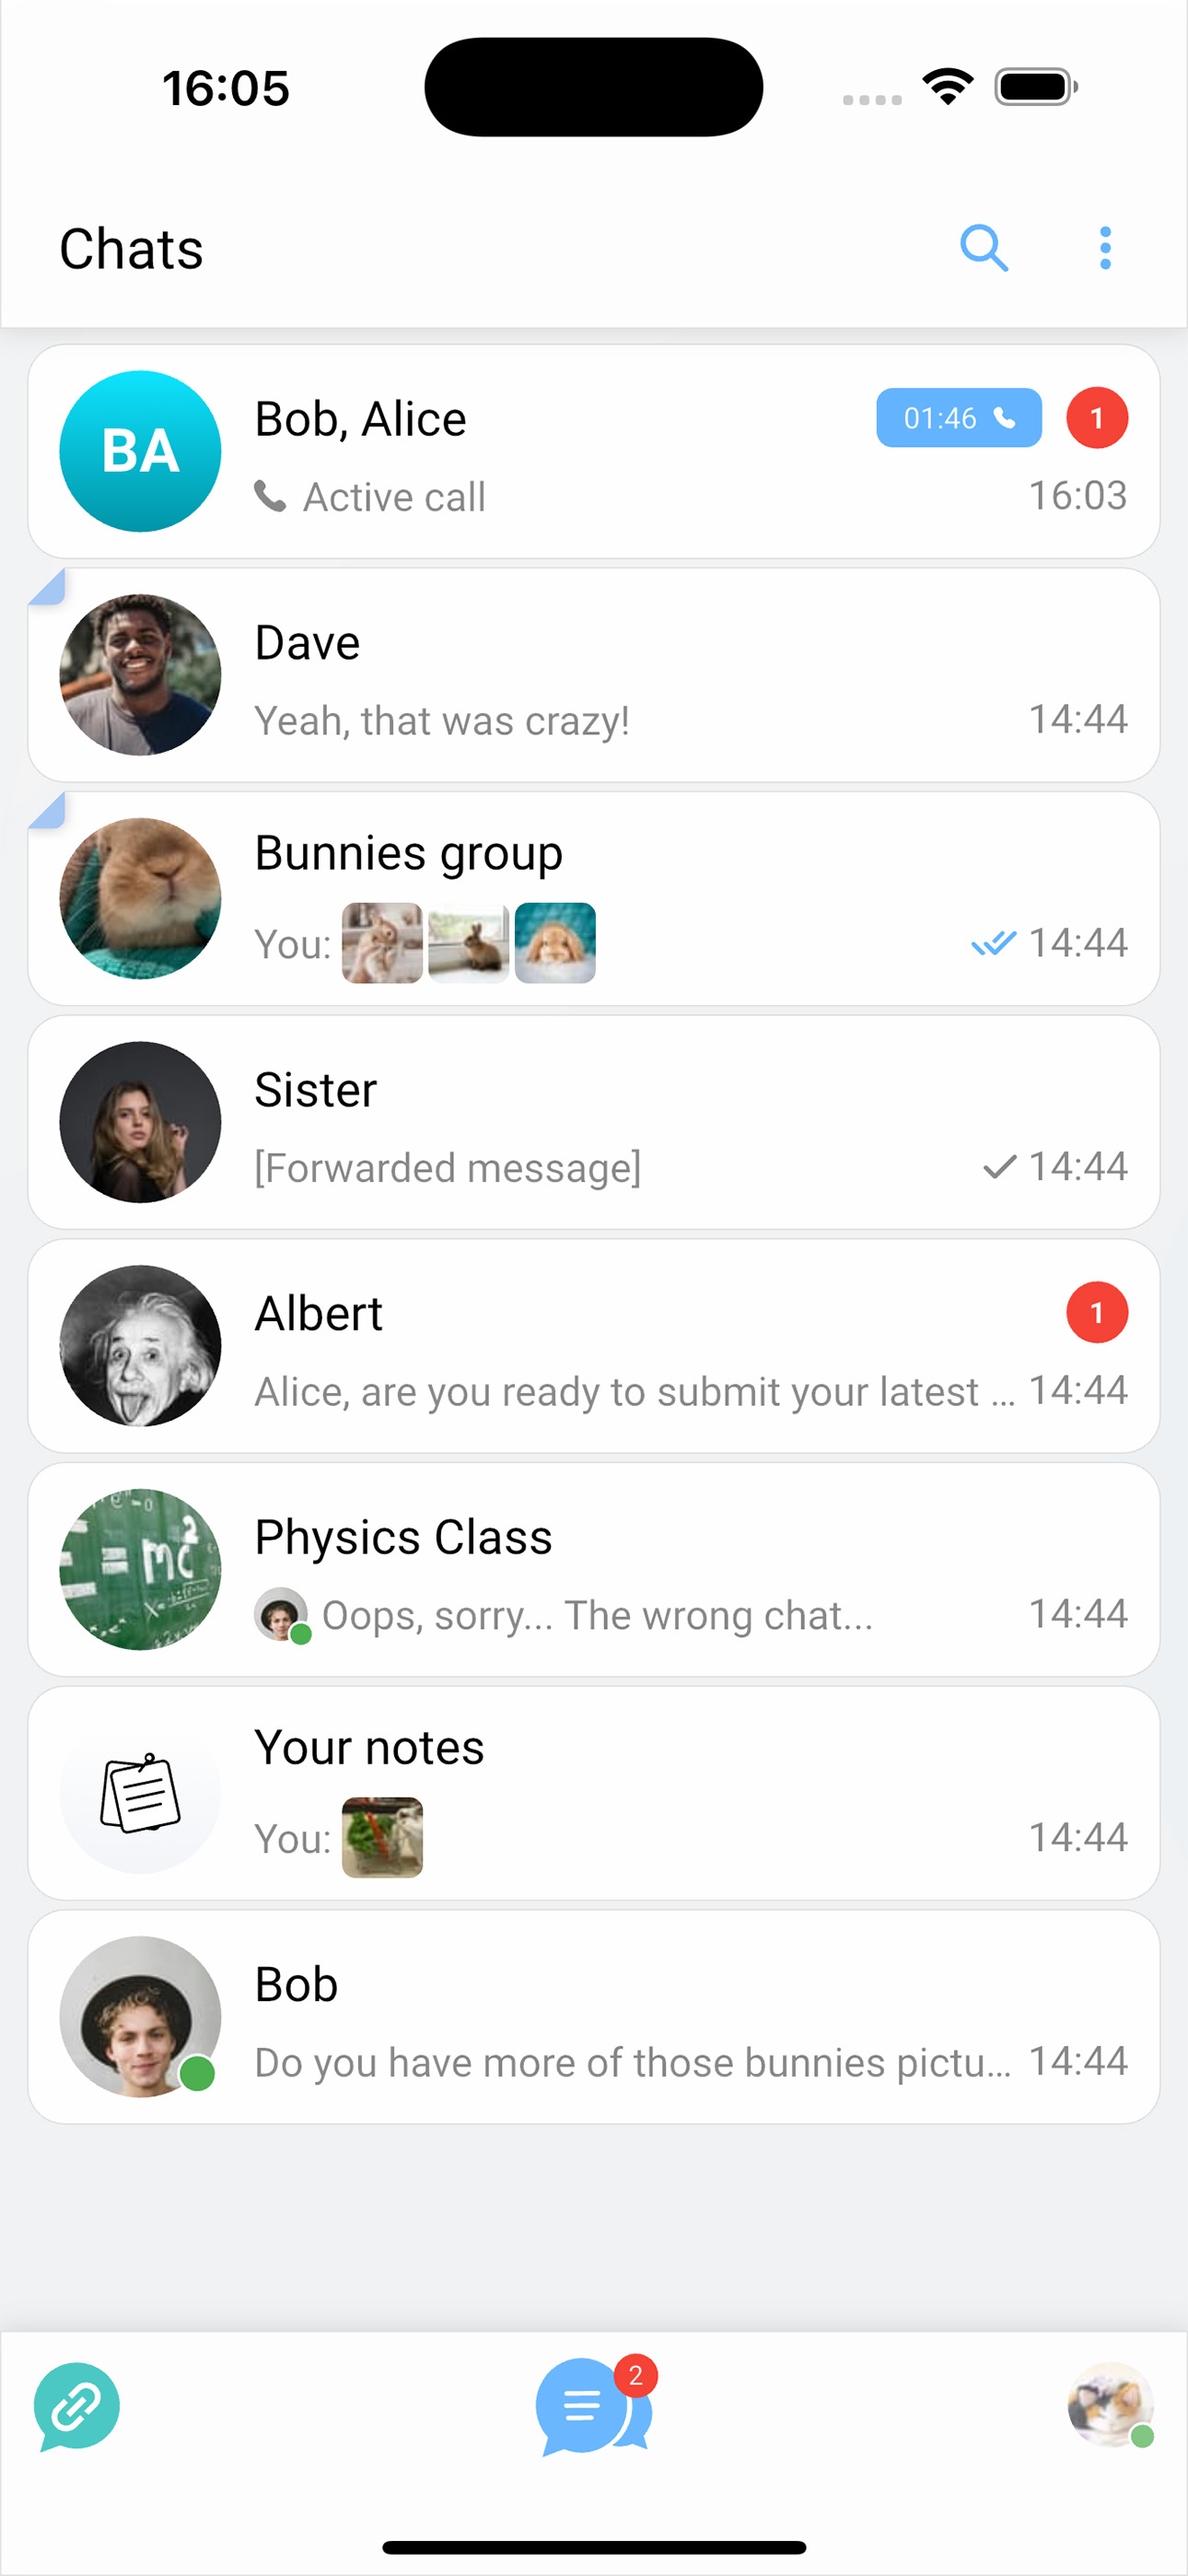
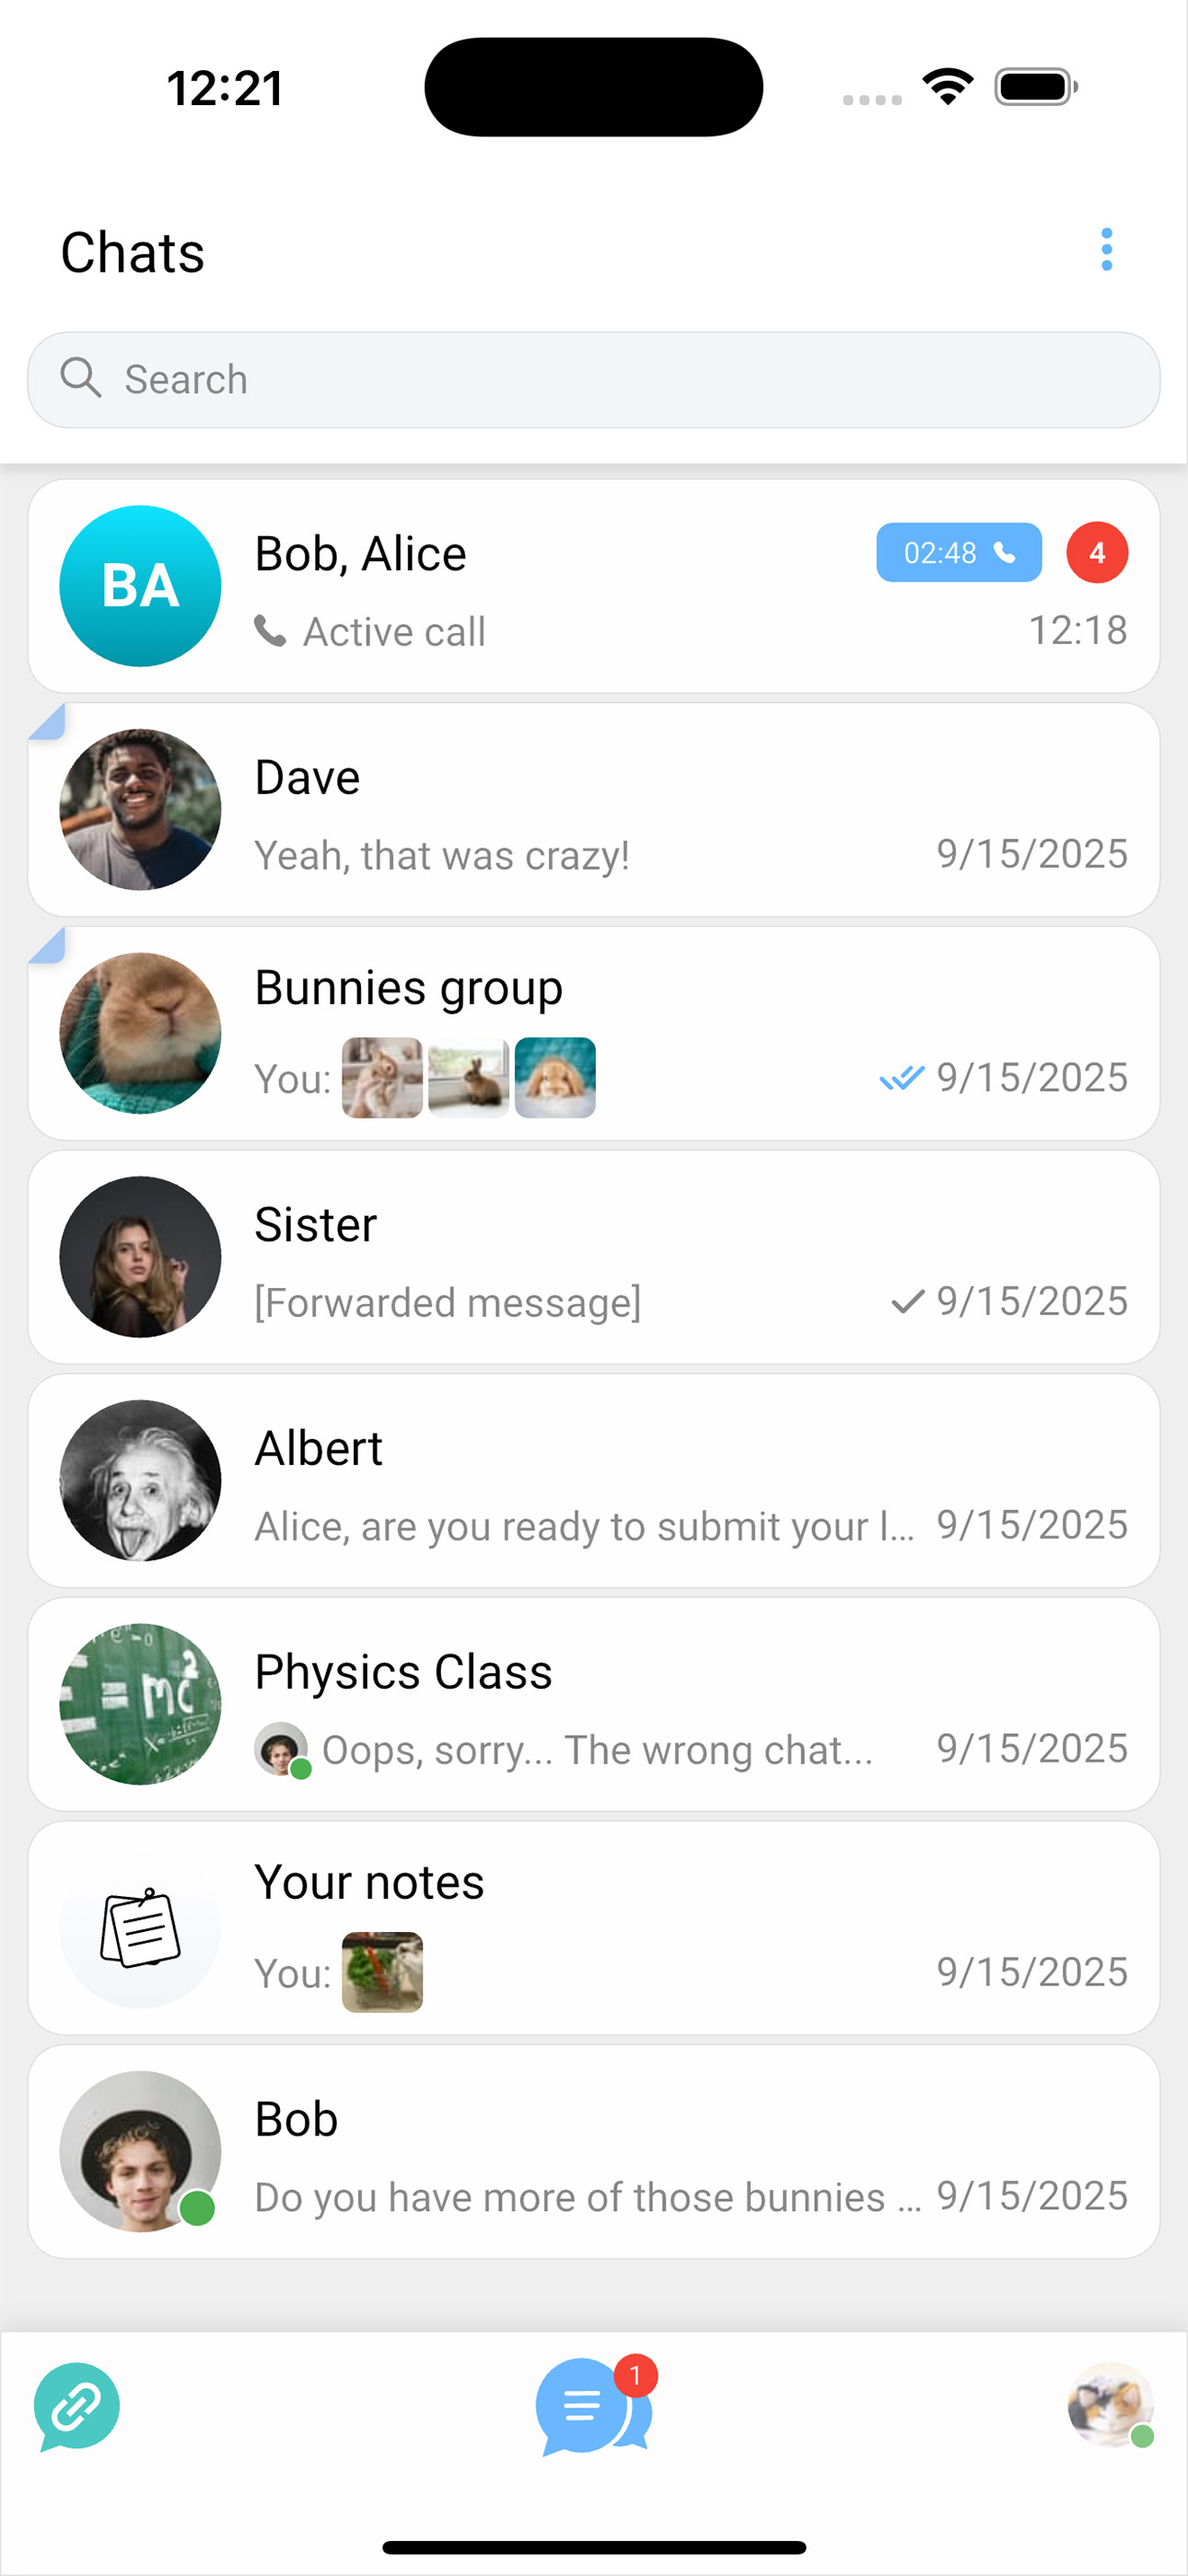
Prepare 0.6.7 project release (#1477)

diff --git a/release_notes/ru-RU.md b/release_notes/ru-RU.md
@@ -1,3 +1,4 @@
-- Добавлен архив чатов.
-- Добавлена отдельная кнопка для скачивания логов.
+- Добавлены сочетания клавиш "Ctrl+F"/"Cmd+F" для поиска сообщений в чате.
+- Добавлено отображение "Удалённый Аккаунт" для удалённых пользователей.
+- Обновлена шапка и поиск на вкладке чатов.
 - Исправления ошибок и улучшения производительности.

diff --git a/release_notes/es-ES.md b/release_notes/es-ES.md
@@ -1,3 +1,5 @@
-- Se añadieron chats archivados.
-- Se añadió un botón independiente para descargar registros.
+- Se han añadido los atajos de teclado "Ctrl+F"/"Cmd+F" para activar la búsqueda de mensajes.
+- Se ha añadido el título "Cuenta eliminada" para los usuarios eliminados.
+- Se ha rediseñado la barra de la aplicación y la función de búsqueda en la pestaña de chats.
 - Se corrigieron errores y se mejoraron el rendimiento.
+ 

diff --git a/CHANGELOG.md b/CHANGELOG.md
@@ -6,10 +6,10 @@ All user visible changes to this project will be documented in this file. This p
 
 
 
-## [0.7.0] · 2025-??-??
-[0.7.0]: /../../tree/v0.7.0
+## [0.6.7] · 2025-10-29
+[0.6.7]: /../../tree/v0.6.7
 
-[Diff](/../../compare/v0.6.6...v0.7.0) | [Milestone](/../../milestone/51)
+[Diff](/../../compare/v0.6.6...v0.6.7) | [Milestone](/../../milestone/51)
 
 ### Changed
 

diff --git a/release_notes/en-US.md b/release_notes/en-US.md
@@ -1,3 +1,4 @@
-- Added archived chats.
-- Added separate button to download logs.
+- Added "Ctrl+F"/"Cmd+F" keyboard shortcuts to toggle messages searching.
+- Added "Deleted Account" title displaying for deleted users.
+- Redesigned app bar and searching on chats tab.
 - Bug fixes and performance improvements.
